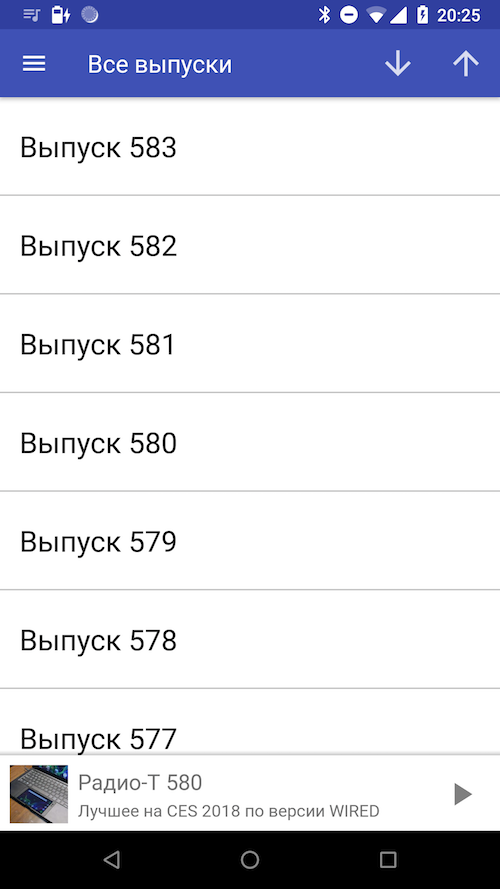
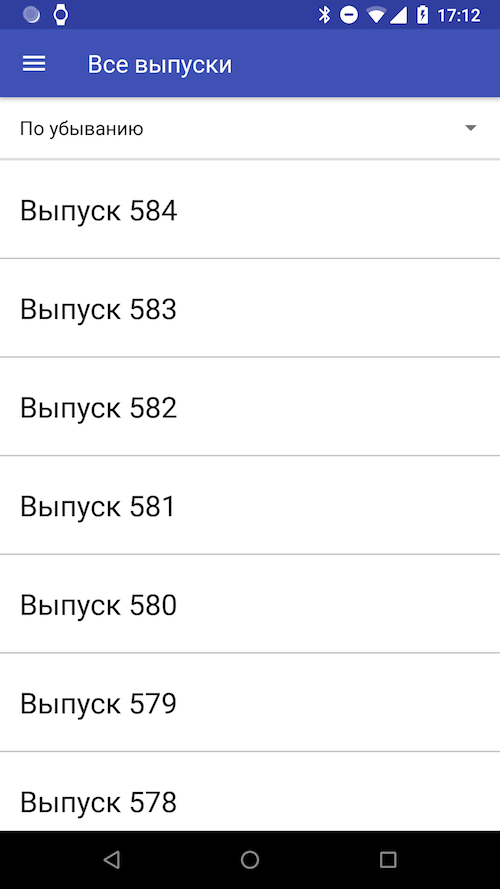
Fixed #7 Added sort spinner in all episodes screen

diff --git a/app/src/main/java/pro/vylgin/radiot/ui/allepisodes/AllEpisodesFragment.kt b/app/src/main/java/pro/vylgin/radiot/ui/allepisodes/AllEpisodesFragment.kt
@@ -5,9 +5,11 @@ import android.os.Bundle
 import android.support.v7.widget.DividerItemDecoration
 import android.support.v7.widget.LinearLayoutManager
 import android.view.View
+import android.widget.AdapterView
+import android.widget.ArrayAdapter
 import com.arellomobile.mvp.presenter.InjectPresenter
 import com.arellomobile.mvp.presenter.ProvidePresenter
-import kotlinx.android.synthetic.main.fragment_last_entries.*
+import kotlinx.android.synthetic.main.fragment_all_episodes.*
 import kotlinx.android.synthetic.main.layout_base_list.*
 import pro.vylgin.radiot.R
 import pro.vylgin.radiot.extension.color
@@ -15,6 +17,7 @@ import pro.vylgin.radiot.presentation.lastentries.AllEpisodesPresenter
 import pro.vylgin.radiot.presentation.lastentries.AllEpisodesView
 import pro.vylgin.radiot.toothpick.DI
 import pro.vylgin.radiot.ui.allepisodes.AllEpisodesAdapter
+import pro.vylgin.radiot.ui.allepisodes.sort.SortType
 import pro.vylgin.radiot.ui.global.BaseFragment
 import toothpick.Toothpick
 
@@ -55,6 +58,7 @@ class AllEpisodesFragment : BaseFragment(), AllEpisodesView {
         super.onActivityCreated(savedInstanceState)
 
         initToolbar()
+        initSortSpinner()
         initRecyclerView()
     }
 
@@ -63,11 +67,31 @@ class AllEpisodesFragment : BaseFragment(), AllEpisodesView {
         toolbar.inflateMenu(R.menu.menu_all_episodes)
         toolbar.setOnMenuItemClickListener {
             when(it.itemId) {
-                R.id.asc -> presenter.onAscPressed()
-                R.id.desc -> presenter.onDescPressed()
+//                R.id.asc -> presenter.onAscPressed()
+//                R.id.desc -> presenter.onDescPressed()
                 else -> showMessage("Unknown option")
             }
             true
+        }
+    }
+
+    private fun initSortSpinner() {
+        val sorts = listOf(SortType.DESC, SortType.ASC)
+
+        val adapter = ArrayAdapter(context, android.R.layout.simple_spinner_item, sorts)
+        adapter.setDropDownViewResource(android.R.layout.simple_spinner_dropdown_item)
+        sortSpinner.adapter = adapter
+        sortSpinner.onItemSelectedListener = object : AdapterView.OnItemSelectedListener {
+            override fun onItemSelected(adapterView: AdapterView<*>, view: View, i: Int, l: Long) {
+                when(sorts[i]) {
+                    SortType.ASC -> presenter.onAscPressed()
+                    SortType.DESC -> presenter.onDescPressed()
+                }
+            }
+
+            override fun onNothingSelected(adapterView: AdapterView<*>) {
+
+            }
         }
     }
 

diff --git a/app/src/main/java/pro/vylgin/radiot/ui/allepisodes/sort/SortType.kt b/app/src/main/java/pro/vylgin/radiot/ui/allepisodes/sort/SortType.kt
@@ -1,0 +1,10 @@
+package pro.vylgin.radiot.ui.allepisodes.sort
+
+enum class SortType(val title: String) {
+    ASC("По возрастанию"),
+    DESC("По убыванию");
+
+    override fun toString(): String {
+        return title
+    }
+}
